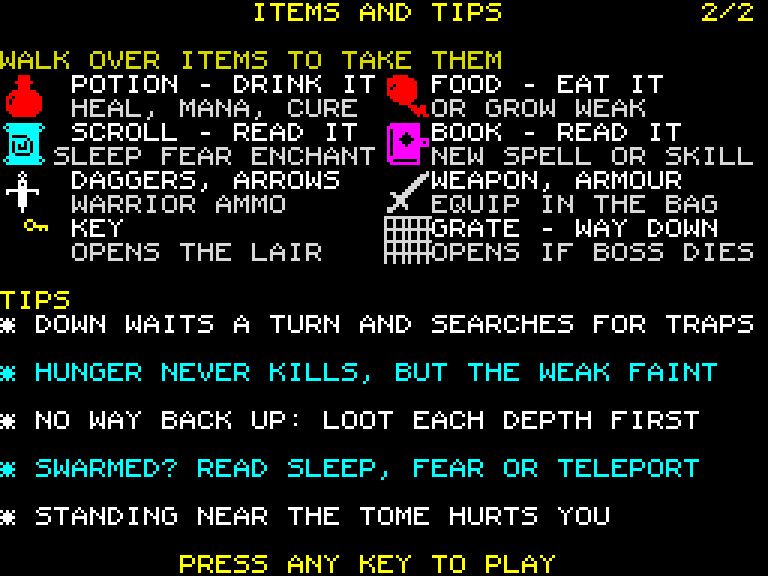
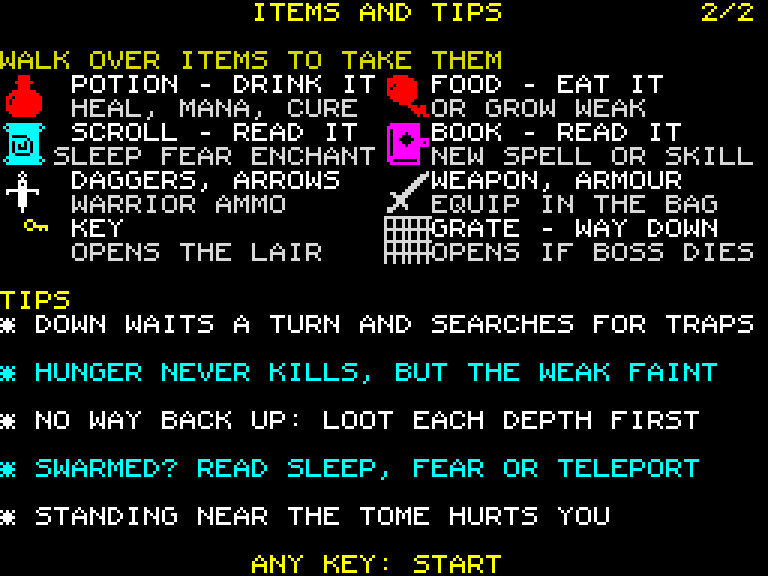
fix(hyg1): HOW TO PLAY bottom lines (page 1 ANY KEY: NEXT PAGE / BREAK: SKIP, page 2 ANY KEY: START), tests honour WZ_BUILD_DIR (combat_tables, page, frames_*, gfx_integrity, abil_*, pickup3e, tier6), memory-map figures from the build (R6 151, bank 7 51, tape 82,023), comment nits

Changed region(s): [[0.2188, 0.9375, 0.7188, 1.0]]

diff --git a/tests/combat_tables.py b/tests/combat_tables.py
@@ -10,17 +10,18 @@ import re
 import sys
 
 REPO = os.path.dirname(os.path.dirname(os.path.abspath(__file__)))
+BUILD_DIR = os.environ.get("WZ_BUILD_DIR", os.path.join(REPO, "build"))
 BASE = 0xC000
 R6BLK = b""
 
 
 def load():
     sym = {}
-    for ln in open(os.path.join(REPO, "build/wazhack.sym")):
+    for ln in open(os.path.join(BUILD_DIR, "wazhack.sym")):
         m = re.match(r"(\S+): EQU 0x([0-9A-Fa-f]+)", ln)
         if m:
             sym[m.group(1)] = int(m.group(2), 16)
-    tap = open(os.path.join(REPO, "build/wazhack.tap"), "rb").read()
+    tap = open(os.path.join(BUILD_DIR, "wazhack.tap"), "rb").read()
     blocks, i = [], 0
     while i < len(tap):
         n = tap[i] | tap[i + 1] << 8
@@ -200,7 +201,7 @@ def main():
     # header, then RAM $4000..$FFFF with bank 2 at $8000); the bank-3 copy, the
     # bank-1 xp_next and the bank-3 level-up tables are gone (xp7.asm immediates,
     # checked at runtime by tests/xp.py).
-    sna = open(os.path.join(REPO, "build/wazhack.sna"), "rb").read()
+    sna = open(os.path.join(BUILD_DIR, "wazhack.sna"), "rb").read()
     x = 27 + sym["xpn_tab"] - 0x4000
     chk("xpn_tab in bank 2", [0x8000 <= sym["xpn_tab"] < 0xC000], [True])
     chk("xp_next", [sna[x + 2 * i] | sna[x + 2 * i + 1] << 8 for i in range(8)], XP_NEXT)

diff --git a/tests/frames_d3.py b/tests/frames_d3.py
@@ -26,6 +26,7 @@ import sys
 import tempfile
 
 REPO = os.path.dirname(os.path.dirname(os.path.abspath(__file__)))
+BUILD_DIR = os.environ.get("WZ_BUILD_DIR", os.path.join(REPO, "build"))
 GRIDS = os.path.join(REPO, "assets/gfx/source/d3_grid")
 GRIDS40 = os.path.join(REPO, "assets/gfx/sprites40/grid")
 DZX0 = os.path.join(REPO, "tools/bin/dzx0")
@@ -36,11 +37,11 @@ COL = {"black": 0, "blue": 1, "red": 2, "magenta": 3, "green": 4, "cyan": 5, "ye
 
 def load():
     S = {}
-    for ln in open(os.path.join(REPO, "build/wazhack.sym")):
+    for ln in open(os.path.join(BUILD_DIR, "wazhack.sym")):
         m = re.match(r"^([A-Za-z_][\w.]*):\s+EQU\s+0x([0-9A-Fa-f]+)", ln)
         if m:
             S[m.group(1)] = int(m.group(2), 16)
-    d = open(os.path.join(REPO, "build/wazhack.sna"), "rb").read()
+    d = open(os.path.join(BUILD_DIR, "wazhack.sna"), "rb").read()
     assert len(d) == 131103, "want a 128K .sna"
     r48, p7 = d[27:27 + 49152], d[49181]
     banks = {5: r48[:16384], 2: r48[16384:32768], p7 & 7: r48[32768:]}

diff --git a/tests/frames_phase.py b/tests/frames_phase.py
@@ -19,18 +19,19 @@ import re
 import sys
 
 REPO = os.path.dirname(os.path.dirname(os.path.abspath(__file__)))
+BUILD_DIR = os.environ.get("WZ_BUILD_DIR", os.path.join(REPO, "build"))
 S = {}
-for line in open(os.path.join(REPO, "build/wazhack.sym")):
+for line in open(os.path.join(BUILD_DIR, "wazhack.sym")):
     m = re.match(r"^([A-Za-z_][\w.]*):\s+EQU\s+0x([0-9A-Fa-f]+)", line)
     if m:
         S[m.group(1)] = int(m.group(2), 16)
-sna = open(os.path.join(REPO, "build/wazhack.sna"), "rb").read()
+sna = open(os.path.join(BUILD_DIR, "wazhack.sna"), "rb").read()
 RAM = sna[27:27 + 49152]                       # $4000..$FFFF as saved
 
 
 # 3F-T2: the kind sequences are R6 masters (src/seq_img.asm), a ZX0 stream in
 # the .sna; its raw image (DISPed at SQ_IMG) is build/ovl/seq.bin
-IMG = open(os.path.join(REPO, "build/ovl/seq.bin"), "rb").read()
+IMG = open(os.path.join(BUILD_DIR, "ovl/seq.bin"), "rb").read()
 
 
 def b(a):

diff --git a/tests/pickup3e.py b/tests/pickup3e.py
@@ -39,6 +39,7 @@ import sys
 from pathlib import Path
 
 HERE = Path(__file__).resolve().parent
+BUILD_DIR = os.environ.get("WZ_BUILD_DIR", str(HERE.parent / "build"))
 sys.path.insert(0, str(HERE))
 sys.path.insert(0, str(HERE.parent / "tools"))
 from game_lib import Harness, S, EMU_ARGS, K_KNIGHT, K_WIZARD, K_RAT, K_GOBLIN, K_SKELETON, K_ARCHER, stand_y  # noqa: E402
@@ -58,7 +59,7 @@ BAG, WORN = S["BAG"], S["WORN"]
 STRINGS = textpack.read_strings()
 TXT = dict(STRINGS)
 PICK = TXT["cmb_pick"]
-IMG = textpack.parse_emitted(os.path.join(HERE.parent, "build", "text", "strings.asm"))
+IMG = textpack.parse_emitted(os.path.join(BUILD_DIR, "text", "strings.asm"))
 RES = S["WORKSTORE_TOP"] - 8
 IT = {k[3:]: v for k, v in S.items() if k.startswith("IT_") and isinstance(v, int)}
 NAME = {"F_CHEESE": "CHEESE", "P_MANA": "MANA POTION", "S_FEAR": "FEAR SCROLL", "BOOK": "WAR TOME",

diff --git a/tests/abil_ammo.py b/tests/abil_ammo.py
@@ -72,6 +72,7 @@ import sys
 from pathlib import Path
 
 HERE = Path(__file__).resolve().parent
+BUILD_DIR = os.environ.get("WZ_BUILD_DIR", str(HERE.parent / "build"))
 sys.path.insert(0, str(HERE))
 sys.path.insert(0, str(HERE.parent / "tools"))
 from game_lib import (Harness, S, EMU_ARGS, K_KNIGHT, K_WIZARD, K_RAT, K_GOBLIN, K_SKELETON,  # noqa: E402
@@ -99,7 +100,7 @@ TXT = dict(STRINGS)
 MK = S["T_ITEM0"] + 3            # FLOOR1: the lower marker of a storey-1 item (row 16 = IROW)
 HEAL_NAME = "HEAL POTION"      # 3E-T11: the legacy IT_POTION is picked up as a Heal potion
 NM = {K_RAT: "RAT", K_GOBLIN: "GOBLIN", K_SKELETON: "SKELETON"}
-IMG = textpack.parse_emitted(os.path.join(HERE.parent, "build", "text", "strings.asm"))
+IMG = textpack.parse_emitted(os.path.join(BUILD_DIR, "text", "strings.asm"))
 PD_AMMO = S["PD_AMMO"]
 
 

diff --git a/tests/page.py b/tests/page.py
@@ -37,6 +37,7 @@ import sys
 from pathlib import Path
 
 HERE = Path(__file__).resolve().parent
+BUILD_DIR = os.environ.get("WZ_BUILD_DIR", str(HERE.parent / "build"))
 sys.path.insert(0, str(HERE))
 _UPD = "--update-golden" in sys.argv
 sys.argv = [sys.argv[0], "999"]               # keep game.py's item filter inert
@@ -111,7 +112,7 @@ def run(p, check):
     t_open = int(z.cmd("get-tstates-partial"))
     f_open = (p.rb("SYS_FRAMES") - f0) & 255
     check("P1 I -> page_run -> overlay -> page loop", ok)
-    raw = open(REPO / "build" / "ovl" / "page.bin", "rb").read()
+    raw = open(Path(BUILD_DIR) / "ovl" / "page.bin", "rb").read()
     win = bytearray(z.read_memory(S["PAGE_ORG"], len(raw)))
     v0, v1 = S["pg_rc"] - S["PAGE_ORG"], S["pg_wid"] - S["PAGE_ORG"]   # the page's variables (written)
     win[v0:v1] = raw[v0:v1]

diff --git a/tests/instr.py b/tests/instr.py
@@ -7,8 +7,9 @@ flow, pages per docs/design/instructions_screen.md / .txt).
   I3  page 2 (GS_HELP2) == page(2) byte for byte
   I4  page 2's key ('1') -> menu, swallowed (no START), menu answers a real press
   I5  BREAK on page 1 skips page 2 -> menu (GS_SELECT), never GS_HELP2
-  I6  bank-0 streams overwritten by the boot pool only after the help (POOL_START), the
-      text block intact; resident cost: none (checked by the build DISPLAYs, not here)
+  I6  static: the boot pool's start (POOL_START) equals the page-1 stream label, i.e. the
+      pool is laid over the streams; that it only runs after the help screens is not
+      checked here (resident cost: build DISPLAYs)
 The reference is a model, not a stored hash: a golden is the approved render itself.
    ZRCP_PORT=<port> python3 tests/instr.py
 """

diff --git a/tests/abil_melee.py b/tests/abil_melee.py
@@ -40,6 +40,7 @@ import sys
 from pathlib import Path
 
 HERE = Path(__file__).resolve().parent
+BUILD_DIR = os.environ.get("WZ_BUILD_DIR", str(HERE.parent / "build"))
 sys.path.insert(0, str(HERE))
 sys.path.insert(0, str(HERE.parent / "tools"))
 from game_lib import (Harness, S, EMU_ARGS, K_KNIGHT, K_RAT, K_SLIME, K_GOBLIN, K_SKELETON, K_BAT,  # noqa: E402
@@ -67,7 +68,7 @@ FX_ST, FX_FID, FXD_COL, FXD_ROW = 16, 18, 5, 6
 STRINGS = textpack.read_strings()
 TXT = dict(STRINGS)
 NM = {K_RAT: "RAT", K_SLIME: "SLIME", K_GOBLIN: "GOBLIN", K_SKELETON: "SKELETON", K_BAT: "BAT"}
-IMG = textpack.parse_emitted(os.path.join(HERE.parent, "build", "text", "strings.asm"))
+IMG = textpack.parse_emitted(os.path.join(BUILD_DIR, "text", "strings.asm"))
 
 
 def stream_text(raw):

diff --git a/tests/tier6.py b/tests/tier6.py
@@ -22,6 +22,7 @@ import sys
 from pathlib import Path
 
 HERE = Path(__file__).resolve().parent
+BUILD_DIR = os.environ.get("WZ_BUILD_DIR", str(HERE.parent / "build"))
 sys.path.insert(0, str(HERE))
 sys.path.insert(0, str(HERE.parent / "tools"))
 from game_lib import Harness, S, EMU_ARGS, K_KNIGHT, K_SKELETON, K_GOBLIN  # noqa: E402
@@ -36,7 +37,7 @@ EF_ACTIVE, EF_PLAYER, EF_HOSTILE = 1, 2, 4
 PHYS, FIRE = 0, 1
 STRINGS = textpack.read_strings()
 TXT = dict(STRINGS)
-IMG = textpack.parse_emitted(os.path.join(HERE.parent, "build", "text", "strings.asm"))
+IMG = textpack.parse_emitted(os.path.join(BUILD_DIR, "text", "strings.asm"))
 WORN, BAG = S["WORN"], S["BAG"]
 IT = {k[3:]: v for k, v in S.items() if k.startswith("IT_") and isinstance(v, int)}
 

diff --git a/tests/gfx_integrity.py b/tests/gfx_integrity.py
@@ -31,6 +31,7 @@ source (read from the .sna the suite loads, never from the running machine):
 Run with ZRCP_PORT=<port>.  `--depths N` (default 8).
 """
 import sys
+import os
 from pathlib import Path
 
 sys.path.insert(0, str(Path(__file__).resolve().parent))
@@ -389,7 +390,7 @@ def scroll_ink(p, stats):
                 stats["bad"].append((kind, k, dest, c, r, row, col))
 
 
-SEQ_BIN = Path(__file__).resolve().parent.parent / "build" / "ovl" / "seq.bin"
+SEQ_BIN = Path(os.environ.get("WZ_BUILD_DIR", str(Path(__file__).resolve().parent.parent / "build"))) / "ovl" / "seq.bin"
 
 
 def lp_kinds(p):

diff --git a/docs/memory-map.md b/docs/memory-map.md
@@ -210,7 +210,7 @@ LAST (`r6_blobs`), run by `ovl_run` with C = `BANK_R6`.
 | Address (kit build) | Size (kit / release) | What |
 |------|------|------|
 | `$E500` `r6_code` | 602 / 584 | `pickup6.asm` (was bank-3 `pickup3.asm`): `pot_sync`, `pu_add`, ~~`pot_take1`~~ (3E-T12: deleted, −9 B), `kit_add` (+ kit lists; the `DEBUG_KIT` extras are the 18-B difference), `mon_drop`, `drop_put` + `dp_*` (5 B, written in play), `drop_tab`, `uniq_tab`; then `bag6.asm` (was `bag3.asm`, `BAG6_LEN` 187): `bag_add`, `bag_find`, `bag_take`, **3E-T13 `bag_discard` (+20)**, `bag_pick` |
-| **UB5 (2026-10-31)** | **R6 free 153 -> 156, bank-3 cold free 0 -> 8, bank 1 / bank 2 unchanged** | Warrior panel: the blank 10th cell moves from slot 9 to slot 5; food / potion / scroll / bag at slots 6..9 on BOTH bars (`QS_SLOT0` 5 -> 6, no `+ HERO_KIND`): `bar_knight` / `slot_act_tab` reordered, `icons3.asm` (-8 B: the potion redraw and `.slow` lose their `HERO_KIND` terms), `pickup6.asm` `pot_sync .qs` (-3 B). Data tables unchanged in size. |
+| **UB5 (2026-10-31)** | **R6 free 148 -> 151, bank-3 cold free 0 -> 8, bank 1 / bank 2 unchanged** | Warrior panel: the blank 10th cell moves from slot 9 to slot 5; food / potion / scroll / bag at slots 6..9 on BOTH bars (`QS_SLOT0` 5 -> 6, no `+ HERO_KIND`): `bar_knight` / `slot_act_tab` reordered, `icons3.asm` (-8 B: the potion redraw and `.slow` lose their `HERO_KIND` terms), `pickup6.asm` `pot_sync .qs` (-3 B). Data tables unchanged in size. |
 | **MEM-RECLAIM w2c (2026-10-30)** | **R6 free +185 B (release 1,283 -> 1,468, kit 1,212 -> 1,397)** | icon packing: `icons16` 1,376 B raw -> `icpk_idx` + `icpk` 995 B (−381), unpacker code +196 (`icons6.asm` `ic_find` / `ic_scr` / `ic_unp` (unrolled oct, ~50 B: `fi_slot` runs on a drop's kill tick, budget lcastf) / `rev8`; `ic_blit`'s copy pass gone; `fi_slot`'s FI_INK fill x4 unrolled). Decoded byte-exact (tools/icons16.py proves the Python model; the screen tests compare against the raw table). Stack: none (decoded onto the screen / into `FI_GLY`). Costs (ic1, incl. far6): `icon_slot` 2.45k -> 3.1k T, a MIRROR icon 4.5k, `worn_draw` 9.4k -> 16.3k (3 MIRROR placeholders), `fi_slot` ~+0.7k T per new slot; budget lcastf 123,059 -> 123,743 T |
 | **MEM-RECLAIM w2b (2026-10-30)** | **R6 free 229 -> 1,283 B release (kit 158 -> 1,212; 1,292 / 1,221 before the Spider climb commit took 9 B)** | cold code moved **R6 -> bank 7** (`B7_CODE` space freed by w2a): `hunger7.asm` (`hunger_turn` (end_turn calls it directly, was far6; `wear_apply` stays R6, far6 from it on a wear turn), `hg_faint`, `food_sub` / `food_dirty`, `hunger_add` (far7 from R6 `fx6`), `hg_stage` / `hg_line`); `trap7.asm` (`trap_turn` (jp from `trap_chk`), `trap_step` (jp from `act_pend`), `tr_*`, `tr_eff` (far6 R6 `tele_arm` / `fx_line`), `hero_hold`; `tr_draw` calls `ap_put_a` directly); `boss7.asm` (`grate_open` far7 from bank-3 `mon_drop`, `boss_chk` far7 from `lp_transition`, `ai_guard` far7 from bank-2 `ai_ghook`). Their read-only tables (`tr_ink7`, `tr_fx`, `glow7`; 29 B) are `data7.asm` in bank 7 right after the tilesets (`data7..data7_end`, one tape block with them, `B7D_LEN`; bank-7 code keeps no data). Stay in R6: `item_food` + `hg_attr` (panel render: never from contended bank 7), `tele_arm` / `tele_flash` / `trap_at` (R6 `fx6` / `pickup6` call them), `lp_post`; `mummy6` inlines its `food_sub` (13 B). Tests call the moved entries through far7 (`B7_LABELS` in hunger / status1 / tier6, t16). |
 | (code, after `ranged6`) | **800** (3F-T9) | `spawn6.asm`: the spawn queue producers `breed6` / `sp_bcall` / `ph_summon` + `sp_summon` (the pose: ranged6 `rg_pose`, now shared with `rg_shoot`), `sp_scan` / `sp_wt` / `sp_fit` (§9.3 cap), `sp_run` (end_turn) + `sp_init` / `sp_y` / `sp_place` / `sp_try` / `sp_door` / `sp_fin`; no variables (bank-5 `SPQ_RAM`) — see "3F-T9" |
@@ -4697,9 +4697,9 @@ No timeout, Kempston not read, the title tune plays on.
   its own `in_vblk` for the vdata `icon_bag`, `icon_sword`, `label_key` (`copy_virt` -> `GEN_SRC`; not bank-3
   `pblit` / `glyph8`: their SMC would make bank 3 != the .sna at the menu, game.py #50), `TILE_GLYPHS`
   (lectern 15-18, grate 13). Attrs are written last (the page appears at once).
-- **Streams:** bank 0 `instr_p1_zx0` = `POOL_START` (`$C916`) .. `instr_zx0_end` (`$CE73`), 1,374 B: page 1,
+- **Streams:** bank 0 `instr_p1_zx0` = `POOL_START` (`$C916`) .. `instr_zx0_end` (`$CE6D`), 1,368 B: page 1,
   page 2, then the code (last, so no overlay address depends on a packed size). On the text tape block
-  (`TEXT_TAPE_LEN` = `TEXT_LEN` + 1,374; no new tape block, `tape_tab` unchanged). Dead after the help:
+  (`TEXT_TAPE_LEN` = `TEXT_LEN` + 1,368; no new tape block, `tape_tab` unchanged). Dead after the help:
   `gen_idles` (now after it) writes the boot pool from `POOL_START` over them; `POOL_START`, `POOL_CAP`
   unchanged (0 pool bytes).
 - **Spec = build:** `tools/instr_pack.py` holds the attr fills / icon placements (`PAGES`) and reads the rows
@@ -4714,7 +4714,7 @@ No timeout, Kempston not read, the title tune plays on.
 |---|---|---|---|
 | low RAM spare | 41 | **38** | −3 (`boot`: `call farb` + `jp enter_select`) |
 | boot block | 2,043 B (`$C005..`) | **1,992 B** (`$C038..`) | −51 (`boot6_wait` 11 B; key waits moved to the overlay) |
-| bank 0 text tape block | 2,326 | **3,700** | +1,374 (boot-only streams) |
-| tape total (.tap bytes, measured) | 80,704 | **82,025** | +1,321 B (+1,374 streams, −51 boot block, low-RAM +3) |
-| bank 1 / bank 3 / bank 7 / R6 / SRC6 / pool slack | 42 / 0 / 53 / 153 / 19 / 1,264 | unchanged | 0 |
+| bank 0 text tape block | 2,326 | **3,694** | +1,368 (boot-only streams) |
+| tape total (.tap bytes, measured) | 80,704 | **82,023** | +1,319 B (+1,368 streams, −51 boot block, low-RAM +3) |
+| bank 1 / bank 3 / bank 7 / R6 / SRC6 / pool slack | 42 / 0 / 51 / 151 / 19 / 1,264 | unchanged | 0 |
 

diff --git a/docs/design/instructions_screen.md b/docs/design/instructions_screen.md
@@ -53,7 +53,7 @@ Page 1: the goal and the controls. `[..]` = icon (not text); attr per row on the
 20                                               -
 21  Q A O P SPACE = UP DOWN LEFT RIGHT FIRE      $05
 22  MENU: 3 PICKS JOYSTICK, 4 REDEFINES KEYS     $05
-23       ANY KEY: NEXT PAGE   BREAK: PLAY        $46
+23       ANY KEY: NEXT PAGE   BREAK: SKIP        $46
 ```
 `F` = the 3 fields (§2). (Icon rows: the text starts at char 4; in the .txt the icon area is spaces.)
 
@@ -77,7 +77,7 @@ Page 2: things you find, and tips.
 17  * NO WAY BACK UP: LOOT EACH DEPTH FIRST       $47
 19  * SWARMED? READ SLEEP, FEAR OR TELEPORT       $45
 21  * STANDING NEAR THE TOME HURTS YOU            $47
-23            PRESS ANY KEY TO PLAY              $46
+23                 ANY KEY: START                  $46
 ```
 Rows 01, 11, 14, 16, 18, 20 and 22 are blank (tips are bulleted `* `, only the 5 most important kept). (Here `[X]` is drawn 3 chars wide to keep the text columns
 visible; the real 16×16 icon fills cells 0–1 / 16–17 and the text starts at char 4 / 24.)
